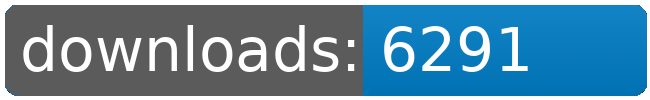
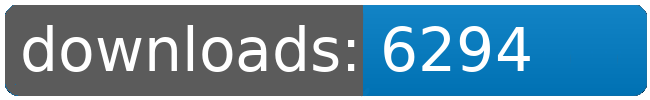
dl log written

Changed region(s): [[0.7692, 0.27, 0.8308, 0.72]]

diff --git a/README.md b/README.md
@@ -21,8 +21,8 @@
 		<td>6198</td>
 		<td>6227</td>
 		<td>6266</td>
-		<td>6291</td>
-		<td>+ 25</td>
+		<td>6294</td>
+		<td>+ 28</td>
 	</tr>
 	<tr>
 		<td>Factory.Outlets</td>
@@ -109,8 +109,8 @@
 		<td></td>
 		<td></td>
 		<td></td>
-		<td>47807</td>
-		<td>139</td>
+		<td>47810</td>
+		<td>142</td>
 	</tr>
 </table>
 </sub></sup>
@@ -157,8 +157,8 @@
 		<td>6198</td>
 		<td>6227</td>
 		<td>6266</td>
-		<td>6291</td>
-		<td>+ 25</td>
+		<td>6294</td>
+		<td>+ 28</td>
 	</tr>
 	<tr>
 		<td>Korunak.Defense.Drones</td>
@@ -223,8 +223,8 @@
 		<td></td>
 		<td></td>
 		<td></td>
-		<td>47807</td>
-		<td>139</td>
+		<td>47810</td>
+		<td>142</td>
 	</tr>
 </table>
 </sub></sup>